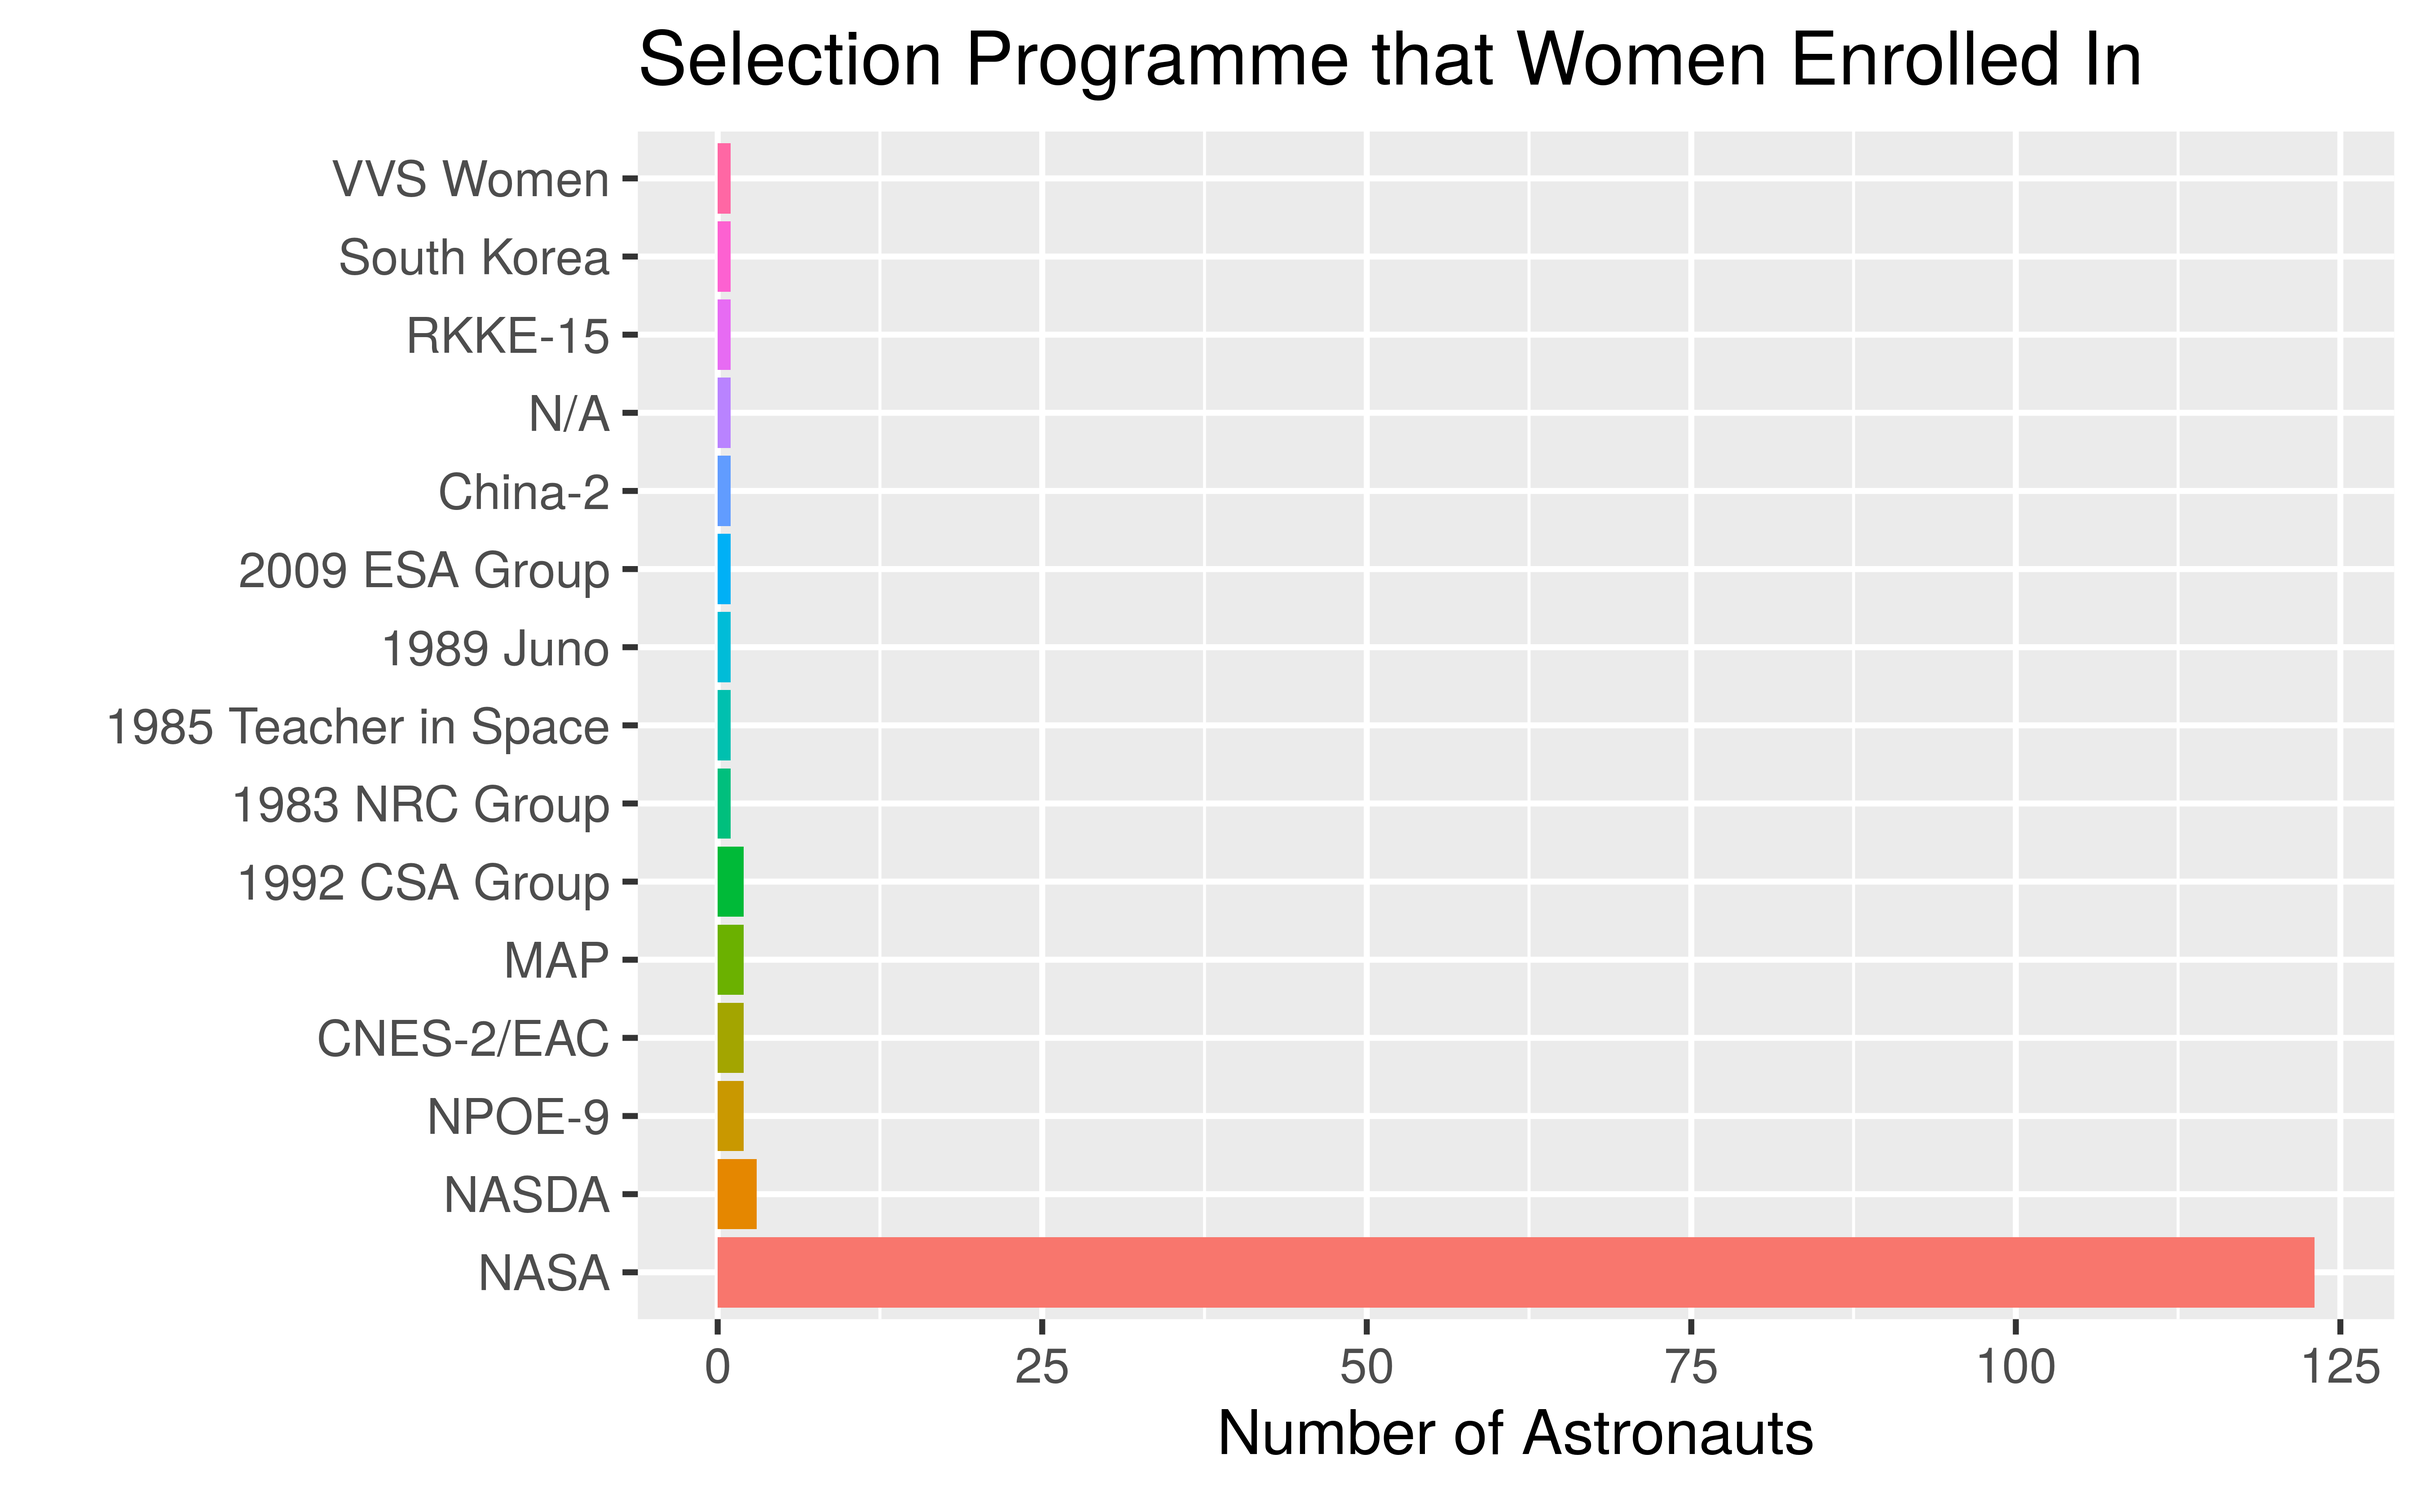
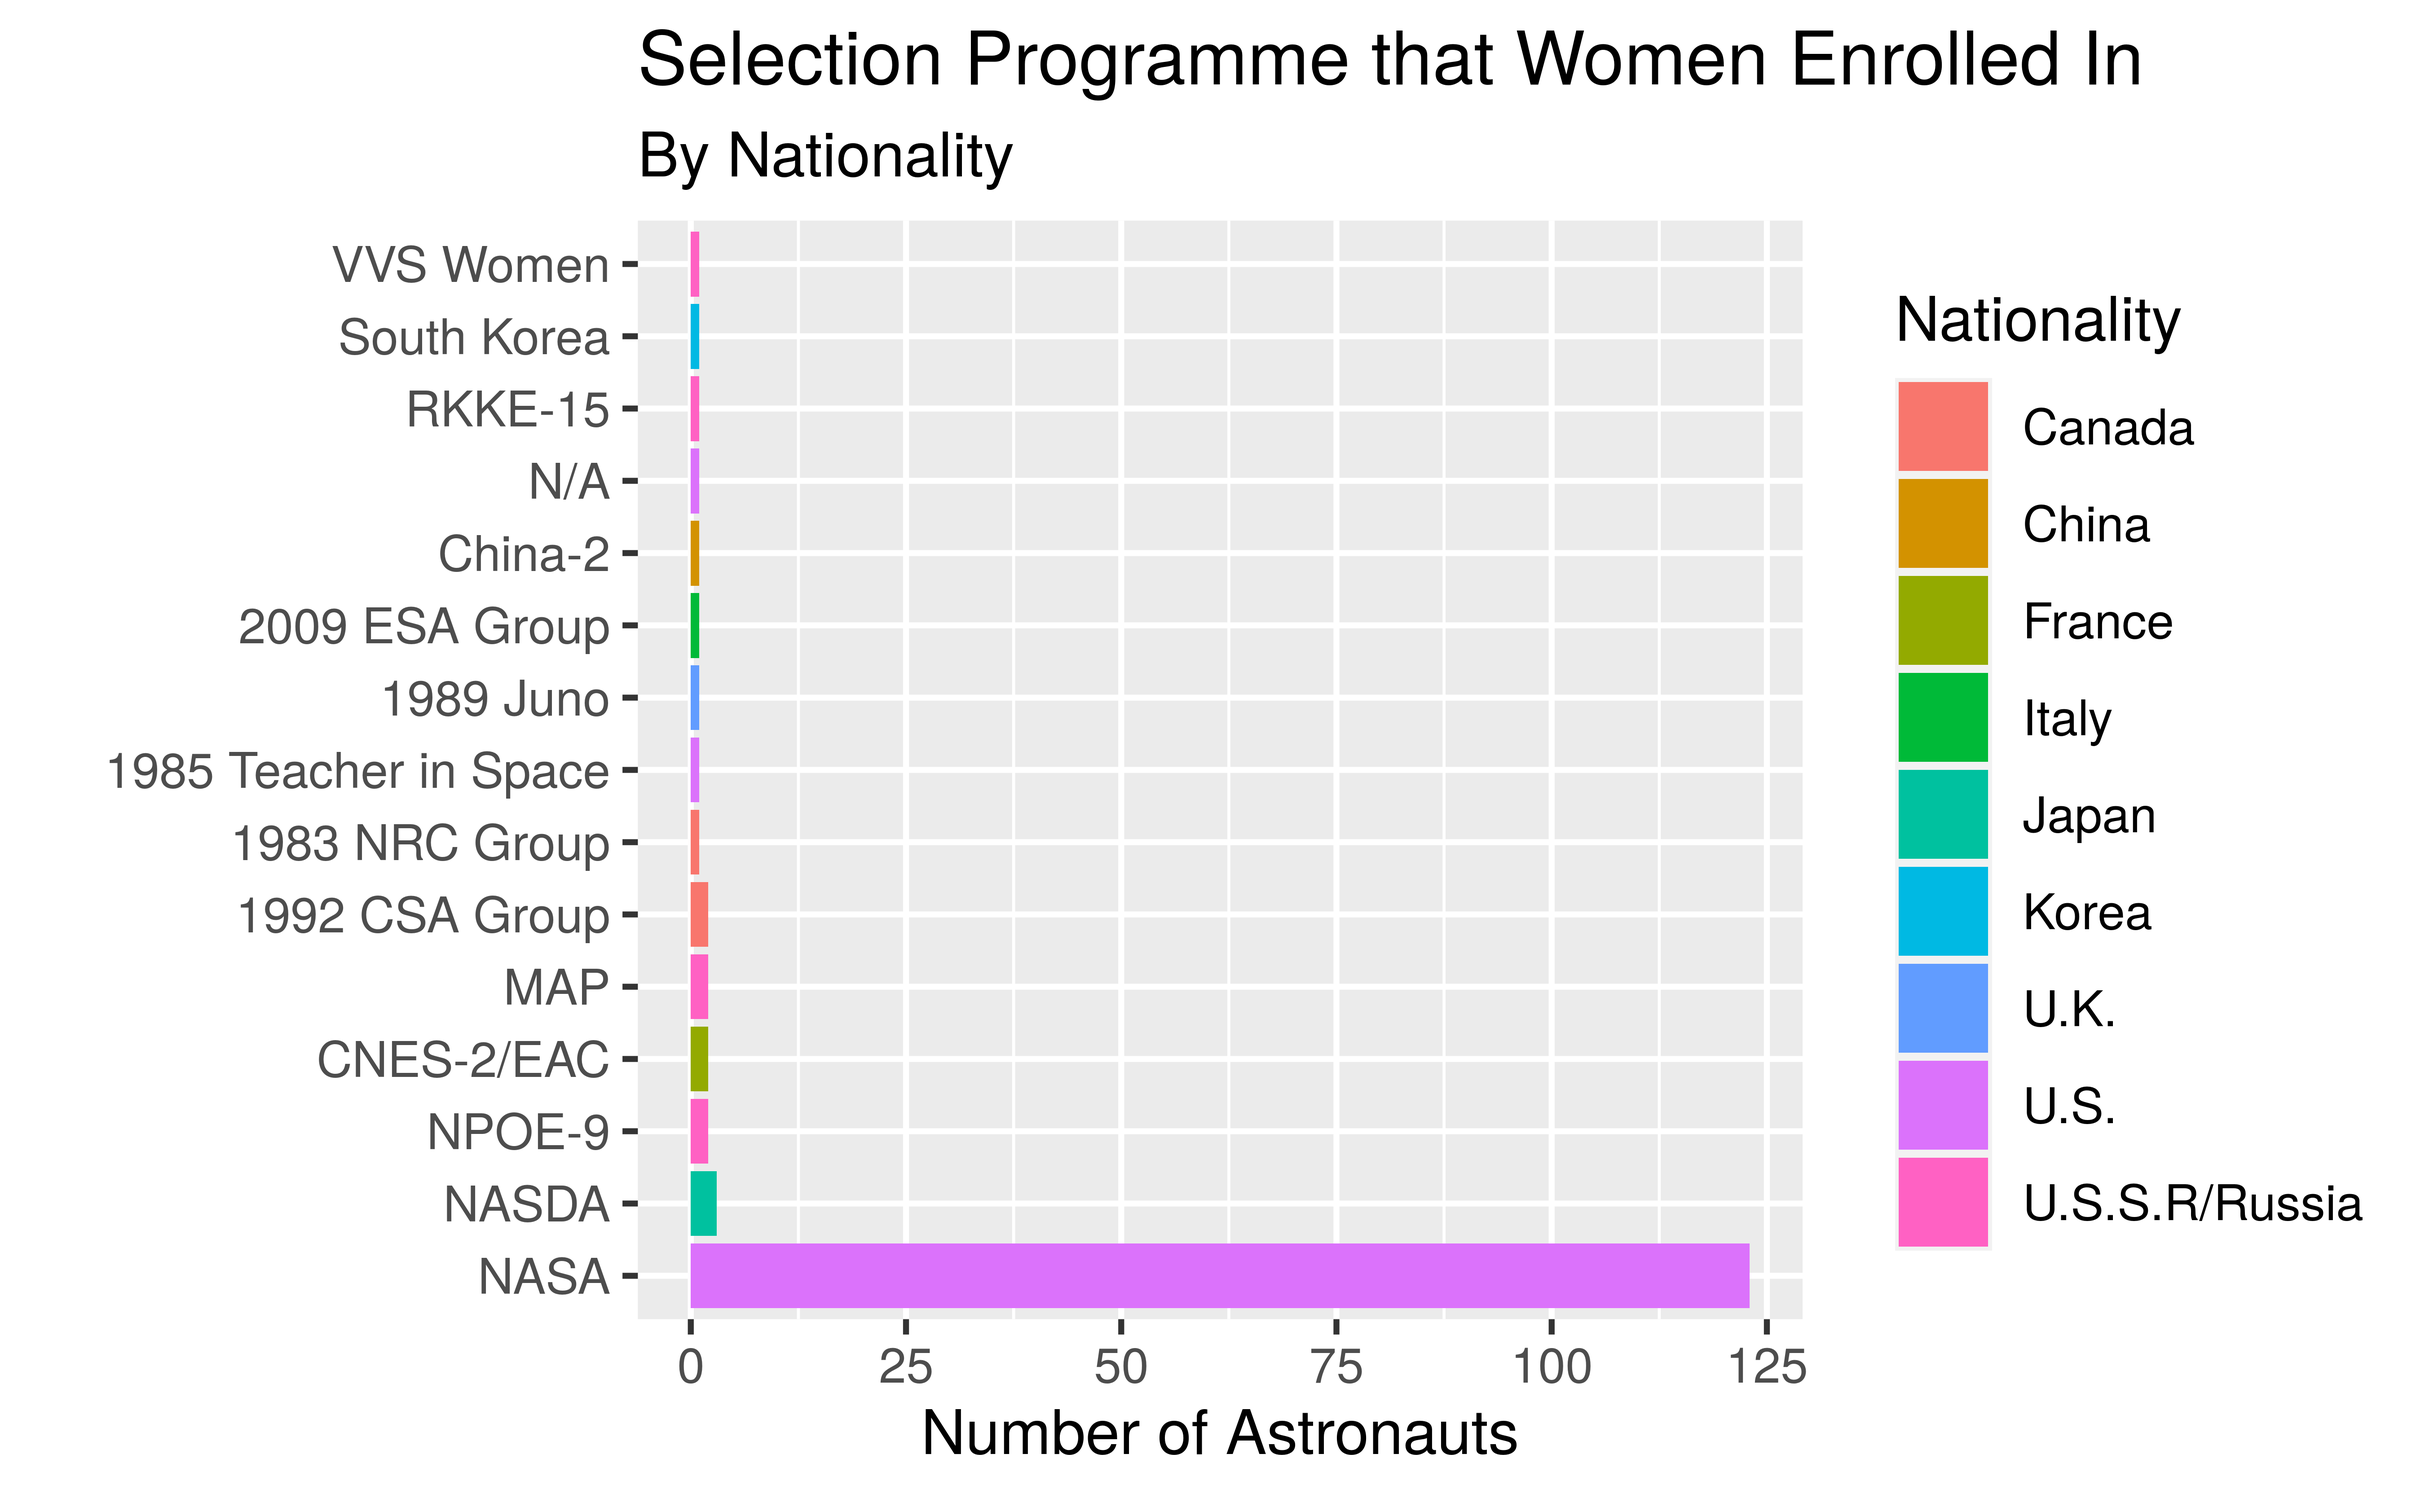
Nationality and Programme Slide Update

diff --git a/presentation/presentation.html b/presentation/presentation.html
@@ -92,17 +92,6 @@ class: inverse, center, middle
 
 ---
 
-# Gender selection by Country and Programme
-As we began to explore the data, we wondered if certain progressive countries led the introduction of women into the profession, or if all countries started to do so at the same time.
-- We found that:
-- As shown by the data, the first female astronauts were introduced in the ____ missions, ....
-- variable "selection" is programme
-- *graph*
-- Look into the programme in which the astronauts are enrolled in? What is the ratio of males to females in each programme? What country are these programmes held in? Is there a country in particular which is more/less progressive in gender equality?
-Adjusted R Squared Value? Is adding sex beneficial?
-
----
-
 #Nationality
 
 .pull-left[
@@ -150,16 +139,11 @@ Nationality of those who have been to space:
 
 ---
 
-#Selection Programme of Women in Space
+#Selection Programme of Women in Space by Nationality 
 
 
 
 &lt;img src="presentation_files/figure-html/unnamed-chunk-5-1.png" width="80%" /&gt;
-
----
-#Selection Programme of Women in Space by Nationality 
-
-&lt;img src="presentation_files/figure-html/unnamed-chunk-6-1.png" width="80%" /&gt;
 
 ---
 class: inverse, center, middle
@@ -222,7 +206,7 @@ class: inverse, center, middle
 #Mission Hours
 
 .pull-left[
-&lt;img src="presentation_files/figure-html/unnamed-chunk-7-1.png" width="80%" /&gt;&lt;img src="presentation_files/figure-html/unnamed-chunk-7-2.png" width="80%" /&gt;
+&lt;img src="presentation_files/figure-html/unnamed-chunk-6-1.png" width="80%" /&gt;&lt;img src="presentation_files/figure-html/unnamed-chunk-6-2.png" width="80%" /&gt;
 ]
 
 .pull-right[
@@ -235,7 +219,7 @@ class: inverse, center, middle
 ---
 #Recall for more missions
 .pull-left[
-&lt;img src="presentation_files/figure-html/unnamed-chunk-8-1.png" width="80%" /&gt;
+&lt;img src="presentation_files/figure-html/unnamed-chunk-7-1.png" width="80%" /&gt;
 ]
 
 .pull-right[
@@ -263,7 +247,7 @@ class: inverse, center, middle
 
 
 
-&lt;img src="presentation_files/figure-html/unnamed-chunk-11-1.png" width="80%" /&gt;
+&lt;img src="presentation_files/figure-html/unnamed-chunk-10-1.png" width="80%" /&gt;
 
 ---
 #Area under the ROC curve
